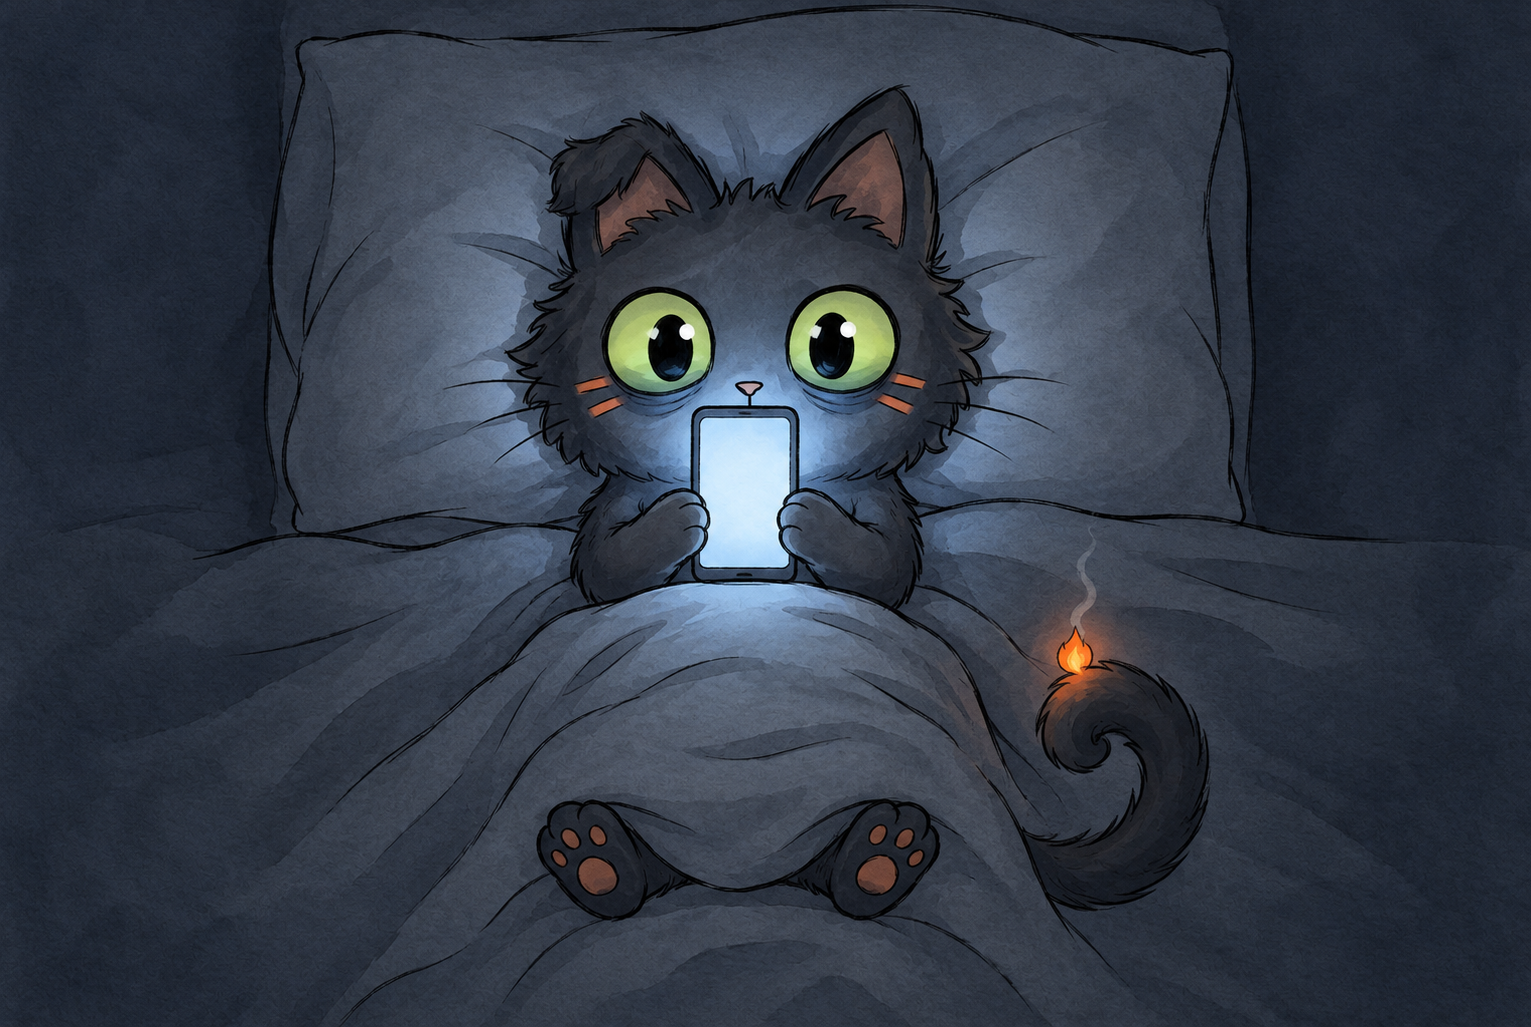
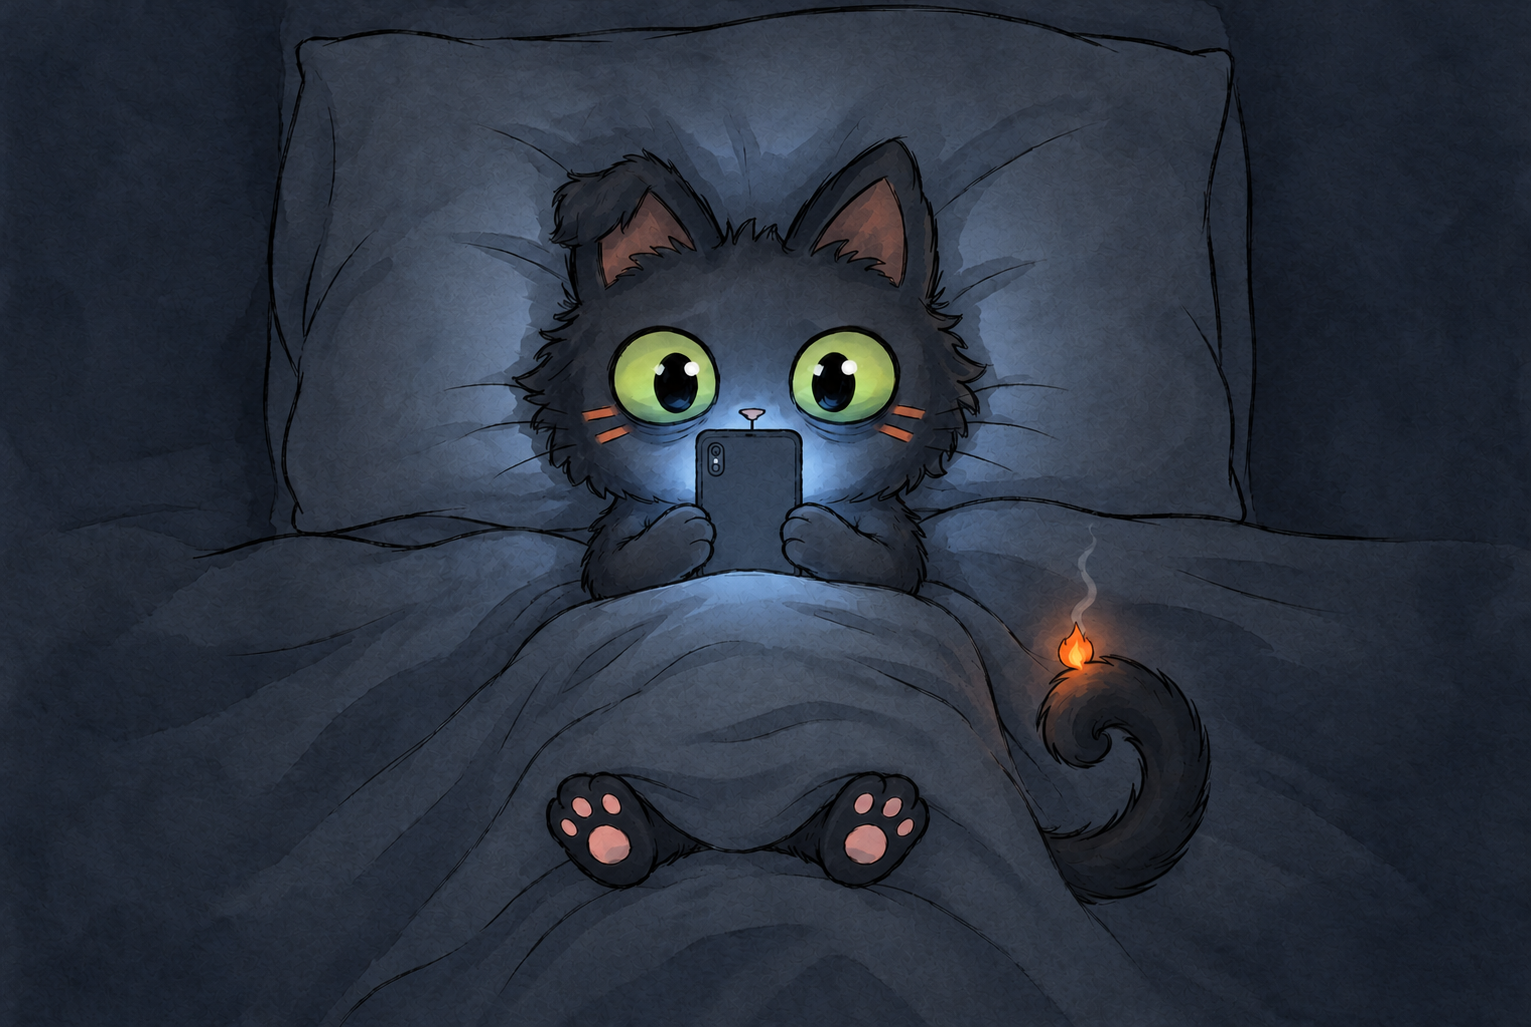
Replace two flawed reel 04 drawings with the owner's corrected versions
The cat in bed had hind paws floating far from its body, and the cat with the
mug had six paws (front paws on the mug plus a second pair below). The owner
supplied corrected drawings with soft pink pads on the mug one and asked for
the old ones to be removed, so the library drops the old originals and holds
the new ones in their place. Same sizes and layout, so crop windows still fit.

Claude-Session: https://claude.ai/code/session_01WL83YHdupNJiw52fjyDVVG

diff --git a/library/cat/README.md b/library/cat/README.md
@@ -105,15 +105,15 @@
 | ![](thumbs/2026-10-23_videos_01_sdvg_pismo_reel_gen_r2_hourglass_2b638ebd.jpg) | [2026-10-23_videos_01_sdvg_pismo_reel_gen_r2_hourglass_2b638ebd.png](originals/2026-10-23_videos_01_sdvg_pismo_reel_gen_r2_hourglass_2b638ebd.png)<br>1531×1027, 2026-10-23 | `videos/01_sdvg_pismo/reel/gen/r2_hourglass.png` | Reference images 1-3 show only the drawing style: take from them the line work, colors, shading and simplicity, never their content or characters. Reference image 4 is the main character: keep exactly its head, face, col… |
 | ![](thumbs/2026-10-25_videos_03_lenivyi_reel_gen_g1_hands_cb7f8c5c.jpg) | [2026-10-25_videos_03_lenivyi_reel_gen_g1_hands_cb7f8c5c.png](originals/2026-10-25_videos_03_lenivyi_reel_gen_g1_hands_cb7f8c5c.png)<br>1531×1027, 2026-10-25 | `videos/03_lenivyi/reel/gen/g1_hands.png` | Reference images 1-3 show only the drawing style: take from them the line work, colors, shading and simplicity, never their content or characters. Reference image 4 is the main character: keep exactly its head, face, col… |
 | ![](thumbs/2026-10-25_videos_03_lenivyi_reel_gen_g2_tail_62fcfcc3.jpg) | [2026-10-25_videos_03_lenivyi_reel_gen_g2_tail_62fcfcc3.png](originals/2026-10-25_videos_03_lenivyi_reel_gen_g2_tail_62fcfcc3.png)<br>1531×1027, 2026-10-25 | `videos/03_lenivyi/reel/gen/g2_tail.png` | Reference images 1-3 show only the drawing style: take from them the line work, colors, shading and simplicity, never their content or characters. Reference image 4 is the main character: keep exactly its head, face, col… |
-| ![](thumbs/2026-10-25_videos_04_noch_reel_gen_n1_bed_top_23dfeefb.jpg) | [2026-10-25_videos_04_noch_reel_gen_n1_bed_top_23dfeefb.png](originals/2026-10-25_videos_04_noch_reel_gen_n1_bed_top_23dfeefb.png)<br>1531×1027, 2026-10-25 | `videos/04_noch/reel/gen/n1_bed_top.png` | Reference images 1-3 show only the drawing style: take from them the line work, colors, shading and simplicity, never their content or characters. Reference image 4 is the main character: keep exactly its head, face, col… |
 | ![](thumbs/2026-10-25_videos_04_noch_reel_gen_n2_dawn_692a9d44.jpg) | [2026-10-25_videos_04_noch_reel_gen_n2_dawn_692a9d44.png](originals/2026-10-25_videos_04_noch_reel_gen_n2_dawn_692a9d44.png)<br>1531×1027, 2026-10-25 | `videos/04_noch/reel/gen/n2_dawn.png` | Reference images 1-3 show only the drawing style: take from them the line work, colors, shading and simplicity, never their content or characters. Reference image 4 is the main character: keep exactly its head, face, col… |
 | ![](thumbs/2026-10-25_videos_04_noch_reel_gen_n3_lamp_island_49e4bac4.jpg) | [2026-10-25_videos_04_noch_reel_gen_n3_lamp_island_49e4bac4.png](originals/2026-10-25_videos_04_noch_reel_gen_n3_lamp_island_49e4bac4.png)<br>1531×1027, 2026-10-25 | `videos/04_noch/reel/gen/n3_lamp_island.png` | Reference images 1-3 show only the drawing style: take from them the line work, colors, shading and simplicity, never their content or characters. Reference image 4 is the main character: keep exactly its head, face, col… |
-| ![](thumbs/2026-10-25_videos_04_noch_reel_gen_n4_tea_day_05d2094a.jpg) | [2026-10-25_videos_04_noch_reel_gen_n4_tea_day_05d2094a.png](originals/2026-10-25_videos_04_noch_reel_gen_n4_tea_day_05d2094a.png)<br>1254×1254, 2026-10-25 | `videos/04_noch/reel/gen/n4_tea_day.png` | Reference images 1-3 show only the drawing style: take from them the line work, colors, shading and simplicity, never their content or characters. Reference image 4 is the main character: keep exactly its head, face, col… |
 | ![](thumbs/2026-10-25_videos_04_noch_reel_gen_n5_bed_side_bc498c2b.jpg) | [2026-10-25_videos_04_noch_reel_gen_n5_bed_side_bc498c2b.png](originals/2026-10-25_videos_04_noch_reel_gen_n5_bed_side_bc498c2b.png)<br>1531×1027, 2026-10-25 | `videos/04_noch/reel/gen/n5_bed_side.png` | Reference images 1-3 show only the drawing style: take from them the line work, colors, shading and simplicity, never their content or characters. Reference image 4 is the main character: keep exactly its head, face, col… |
 | ![](thumbs/2026-10-25_videos_05_ustal_reel_gen_u1_floor_9396085a.jpg) | [2026-10-25_videos_05_ustal_reel_gen_u1_floor_9396085a.png](originals/2026-10-25_videos_05_ustal_reel_gen_u1_floor_9396085a.png)<br>1531×1027, 2026-10-25 | `videos/05_ustal/reel/gen/u1_floor.png` | Reference images 1-3 show only the drawing style: take from them the line work, colors, shading and simplicity, never their content or characters. Reference image 4 is the main character: keep exactly its head, face, col… |
 | ![](thumbs/2026-10-25_videos_05_ustal_reel_gen_u2_glass_a5d52a39.jpg) | [2026-10-25_videos_05_ustal_reel_gen_u2_glass_a5d52a39.png](originals/2026-10-25_videos_05_ustal_reel_gen_u2_glass_a5d52a39.png)<br>1254×1254, 2026-10-25 | `videos/05_ustal/reel/gen/u2_glass.png` | Reference images 1-3 show only the drawing style: take from them the line work, colors, shading and simplicity, never their content or characters. Reference image 4 is the main character: keep exactly its head, face, col… |
 | ![](thumbs/2026-10-25_videos_05_ustal_reel_gen_u3_glass_down_6d36416f.jpg) | [2026-10-25_videos_05_ustal_reel_gen_u3_glass_down_6d36416f.png](originals/2026-10-25_videos_05_ustal_reel_gen_u3_glass_down_6d36416f.png)<br>1536×1024, 2026-10-25 | `videos/05_ustal/reel/gen/u3_glass_down.png` | Reference images 1-3 show only the drawing style: take from them the line work, colors, shading and simplicity, never their content or characters. Reference image 4 is the main character: keep exactly its head, face, col… |
 | ![](thumbs/2026-10-25_videos_05_ustal_reel_gen_u3_glass_down_raw_dc2c616a.jpg) | [2026-10-25_videos_05_ustal_reel_gen_u3_glass_down_raw_dc2c616a.png](originals/2026-10-25_videos_05_ustal_reel_gen_u3_glass_down_raw_dc2c616a.png)<br>1536×1024, 2026-10-25 | `videos/05_ustal/reel/gen/u3_glass_down_raw.png` |  |
+| ![](thumbs/2026-10-25_videos_04_noch_reel_gen_n1_bed_top_39ca987a.jpg) | [2026-10-25_videos_04_noch_reel_gen_n1_bed_top_39ca987a.png](originals/2026-10-25_videos_04_noch_reel_gen_n1_bed_top_39ca987a.png)<br>1531×1027, 2026-10-27 | `videos/04_noch/reel/gen/n1_bed_top.png` | Reference images 1-3 show only the drawing style: take from them the line work, colors, shading and simplicity, never their content or characters. Reference image 4 is the main character: keep exactly its head, face, col… |
+| ![](thumbs/2026-10-25_videos_04_noch_reel_gen_n4_tea_day_40bdbf52.jpg) | [2026-10-25_videos_04_noch_reel_gen_n4_tea_day_40bdbf52.png](originals/2026-10-25_videos_04_noch_reel_gen_n4_tea_day_40bdbf52.png)<br>1254×1254, 2026-10-27 | `videos/04_noch/reel/gen/n4_tea_day.png` | Reference images 1-3 show only the drawing style: take from them the line work, colors, shading and simplicity, never their content or characters. Reference image 4 is the main character: keep exactly its head, face, col… |
 
 ## эталон сайта (2)
 
